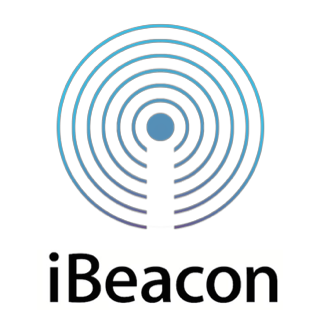
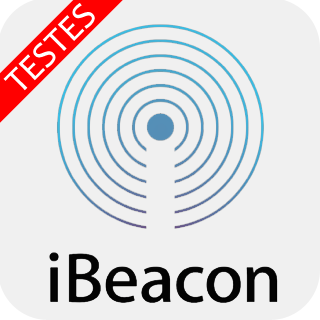
Modifications
added icon app
added progress-bar in first view
added more data to ibeacon scan

diff --git a/index.html b/index.html
@@ -29,18 +29,23 @@
 <body>
 
 	<header>
-		<button class="back" onclick="history.back()">
-			<img src="ui/images/arrow-left.svg" />
-		</button>
-
-		<img class="logotype" src="ui/images/logo.svg" alt="Evothings" />
-
+		SI-Scan
 		<!--<button class="menu" onclick=""><img src="ui/images/menu.svg" /></button>-->
 	</header>
 
 	<h1>iBeacon Scan</h1>
-	<p id="warning">To detect iBeacons you will have to add the 128bit UUID's you
-	are looking for to the regions array in app.js of the iBeacon example.
+	<p id="warning">Searching...<!--To detect iBeacons you will have to add the 128bit UUID's you
+	are looking for to the regions array in app.js of the iBeacon example.-->
+	<div id="fountainG">
+		<div id="fountainG_1" class="fountainG"></div>
+		<div id="fountainG_2" class="fountainG"></div>
+		<div id="fountainG_3" class="fountainG"></div>
+		<div id="fountainG_4" class="fountainG"></div>
+		<div id="fountainG_5" class="fountainG"></div>
+		<div id="fountainG_6" class="fountainG"></div>
+		<div id="fountainG_7" class="fountainG"></div>
+		<div id="fountainG_8" class="fountainG"></div>
+	</div>
 	</p>
 	<ul id="found-beacons" class="dynamic"></ul>
 

diff --git a/app.js b/app.js
@@ -150,13 +150,16 @@ var app = (function()
 					+	'Major: ' + beacon.major + '<br />'
 					+	'Minor: ' + beacon.minor + '<br />'
 					+	'Proximity: ' + beacon.proximity + '<br />'
+					+	'Distance: ' + beacon.distance + '<br />'
+					+	'MacAddress: ' + beacon.macAddress + '<br />'
+					+	'MeasuredPower: ' + beacon.measuredPower + '<br />'
 					+	'RSSI: ' + beacon.rssi + '<br />'
 					+ 	'<div style="background:rgb(255,128,64);height:20px;width:'
 					+ 		rssiWidth + '%;"></div>'
 					+ '</li>'
 				);
 
-				$('#warning').remove();
+				$('#warning, #fountainG').remove();
 				$('#found-beacons').append(element);
 			}
 		});
